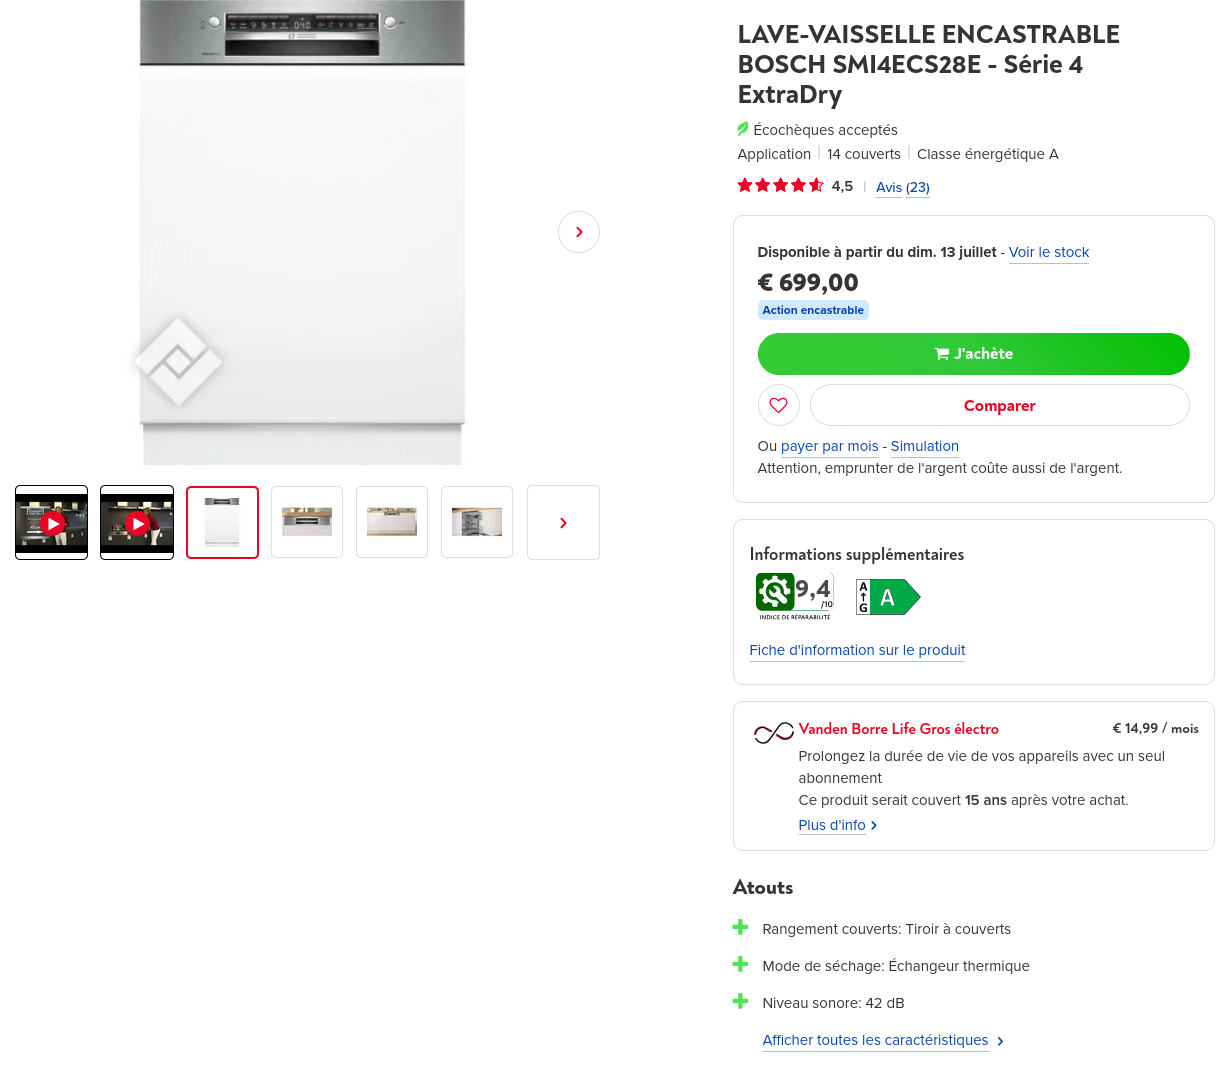
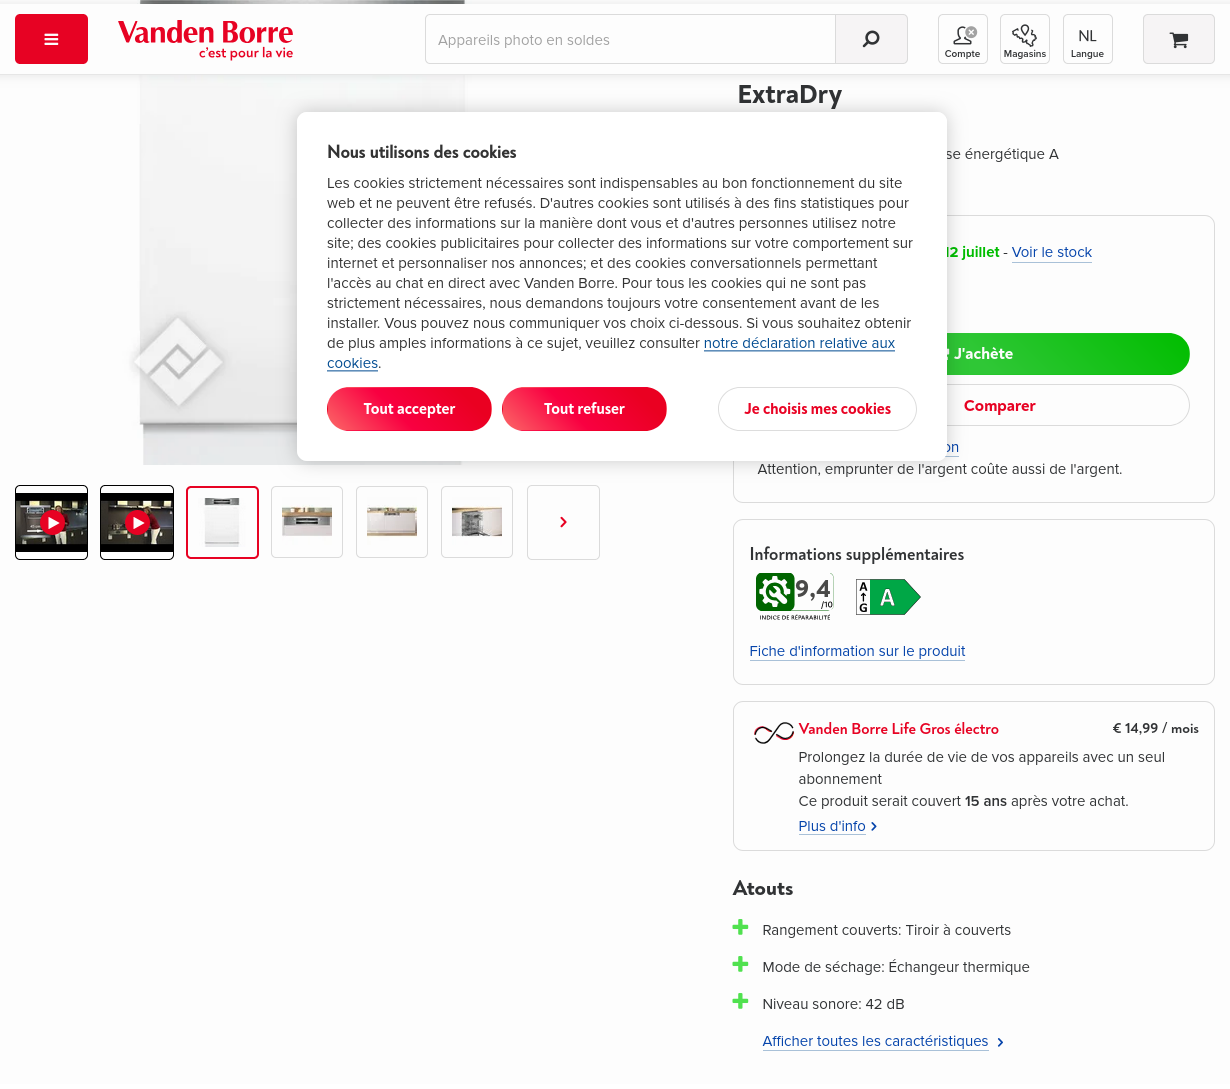
Latest scraping prices: Tue Jul  8 14:30:15 UTC 2025

diff --git a/scrapes/prices/vandenborre-SMI4ECS28E.md b/scrapes/prices/vandenborre-SMI4ECS28E.md
@@ -1,4 +1,4 @@
-Disponible à partir du dim. 13 juillet \- Voir le stock
+Disponible à partir du sam. 12 juillet \- Voir le stock
 
 € 699,00
 
